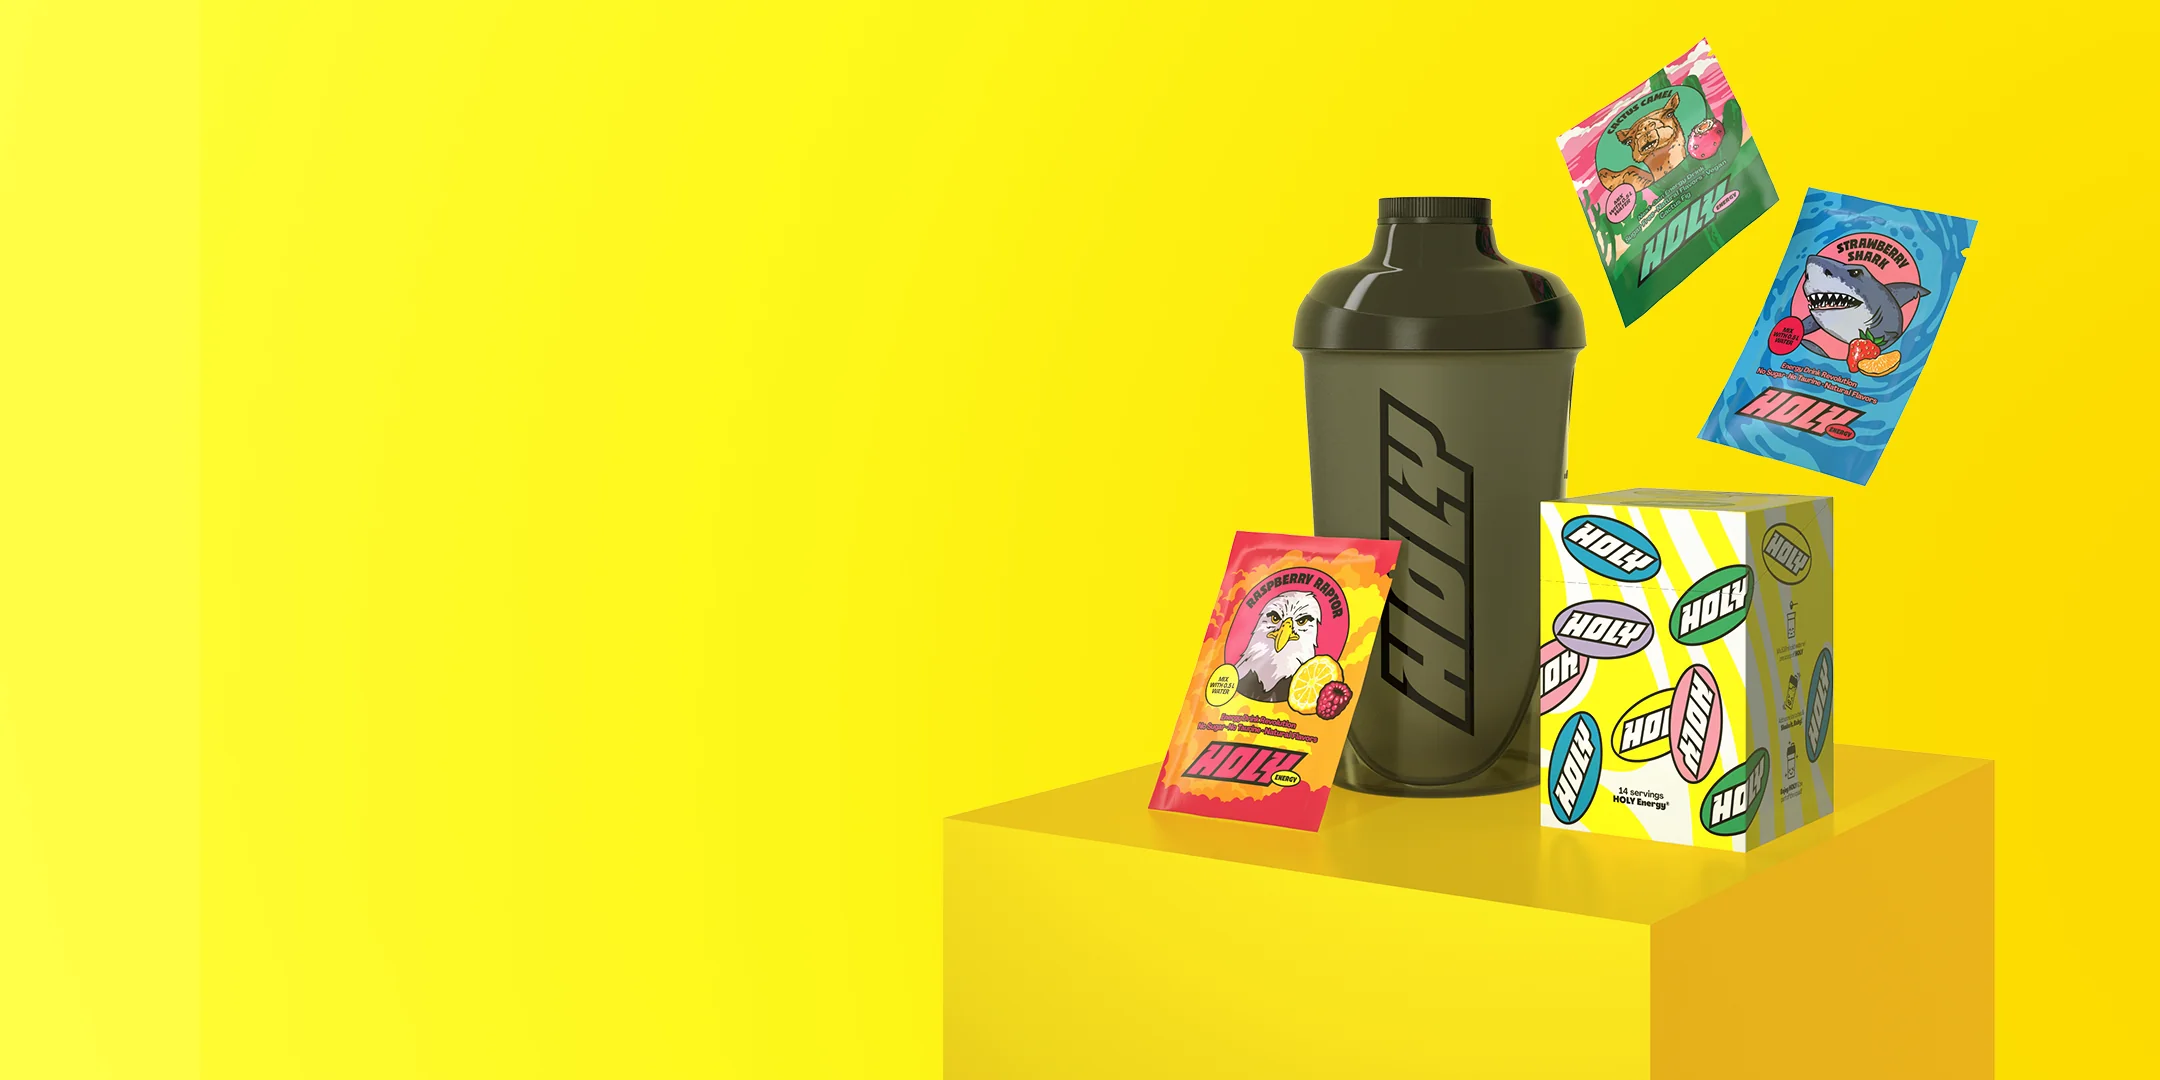
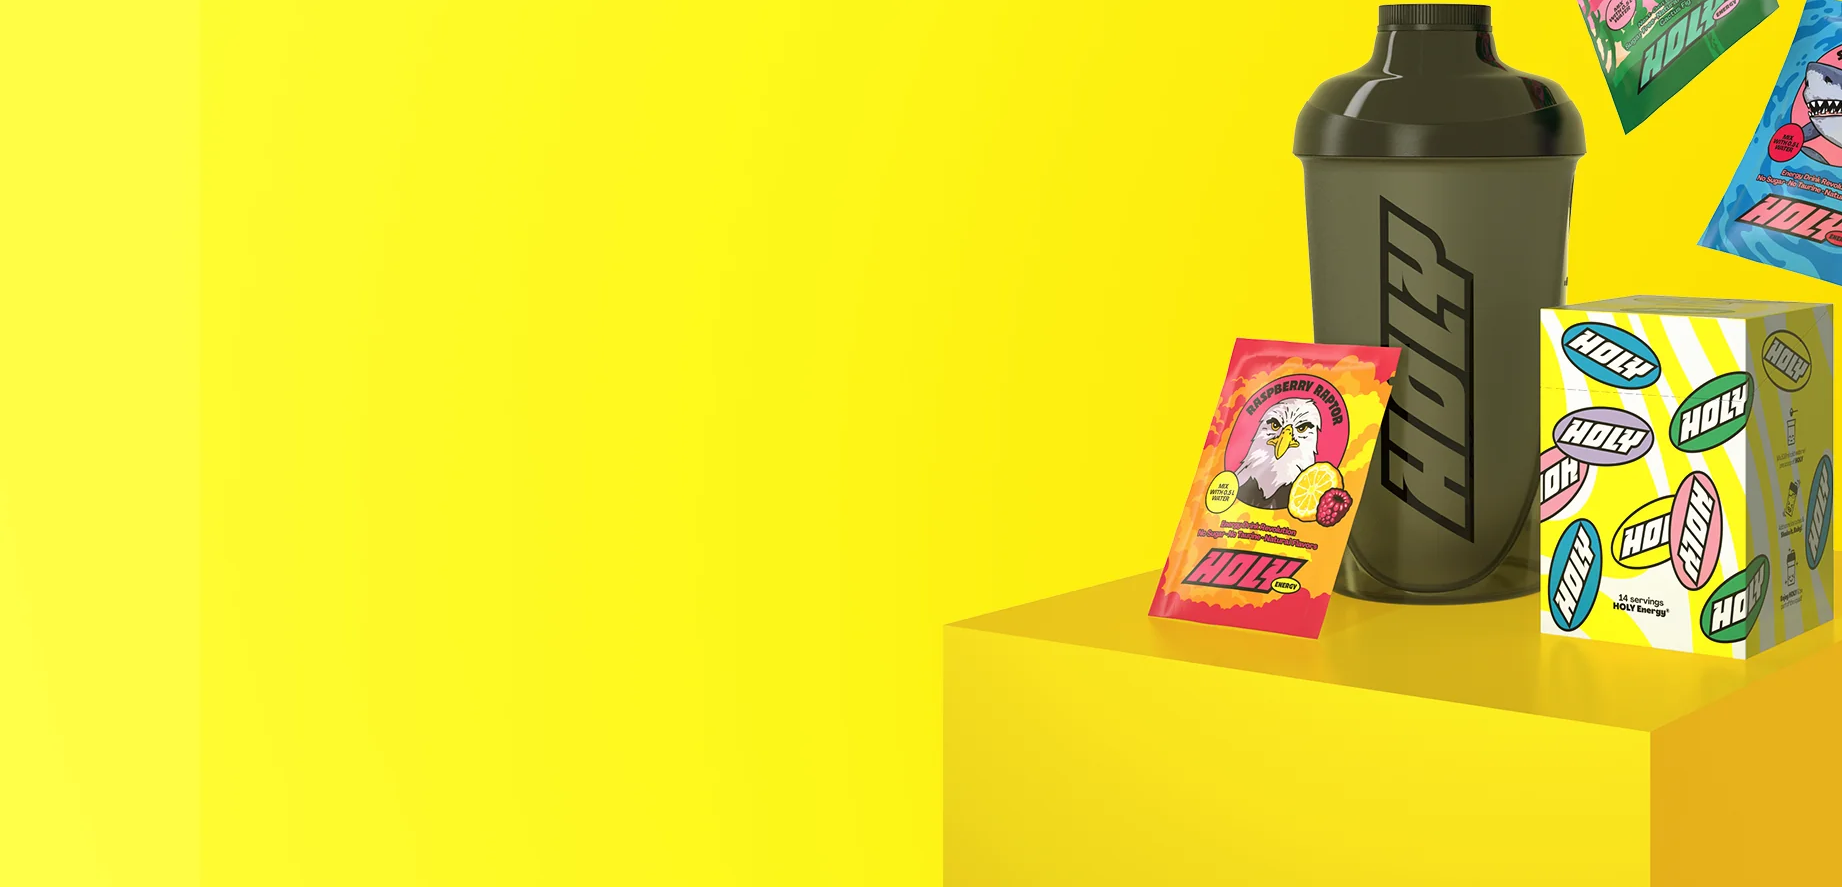
Modification de la width du backrgound du carousel et redimension des images

diff --git a/src/components/Carousel/Carousel.js b/src/components/Carousel/Carousel.js
@@ -39,27 +39,27 @@ export default function Carousel({games}) {
     <div className="carousel-global">
       <img className="ads-hero" src={pictureAds} alt="comercial banner" />
 
-    <div className="carousel-container">
-      {finalCover && finalCover.length ? 
-        <ResponsiveContainer
-        carouselRef={ref}
-        render={(parentWidth, carouselRef) => {
-          // If you want to use a ref to call the method of StackedCarousel, you cannot set the ref directly on the carousel component
-          // This is because ResponsiveContainer will not render the carousel before its parent's width is determined
-          // parentWidth is determined after your parent component mounts. Thus if you set the ref directly it will not work since the carousel is not rendered
-          // Thus you need to pass your ref object to the ResponsiveContainer as the carouselRef prop and in your render function you will receive this ref object
-          let currentVisibleSlide = 5;
-          if (parentWidth <= 1440) currentVisibleSlide = 3;
-          if (parentWidth <= 1080) currentVisibleSlide = 1;
-          return (
-            <div className="carousel">
-              <div
-              style={ {display:"flex", alignItems:"center", marginBottom: "40px"}}
-              size="small"
-              color="primary"
-              onClick={() => {
+      <div className="carousel-container">
+        {finalCover && finalCover.length ? 
+          <ResponsiveContainer
+          carouselRef={ref}
+          render={(parentWidth, carouselRef) => {
+            // If you want to use a ref to call the method of StackedCarousel, you cannot set the ref directly on the carousel component
+            // This is because ResponsiveContainer will not render the carousel before its parent's width is determined
+            // parentWidth is determined after your parent component mounts. Thus if you set the ref directly it will not work since the carousel is not rendered
+            // Thus you need to pass your ref object to the ResponsiveContainer as the carouselRef prop and in your render function you will receive this ref object
+            let currentVisibleSlide = 5;
+            if (parentWidth <= 1440) currentVisibleSlide = 3;
+            if (parentWidth <= 1080) currentVisibleSlide = 1;
+            return (
+              <div className="carousel">
+                <div
+                style={ {display:"flex", alignItems:"center", marginBottom: "40px"}}
+                size="small"
+                color="primary"
+                onClick={() => {
                 ref.current?.goBack();
-              }}
+                }}
               >
               <ArrowBackIcon className="arrowBackIcon"/>
               </div>
@@ -75,24 +75,25 @@ export default function Carousel({games}) {
               useGrabCursor
               />
 
-            <div
-            style={ {display:"flex", alignItems:"center", marginBottom: "40px"}}
-            size="small"
-            color="primary"
-            onClick={() => {
+              <div
+              style={ {display:"flex", alignItems:"center", marginBottom: "40px"}}
+              size="small"
+              color="primary"
+              onClick={() => {
               ref.current?.goNext(6);
-            }}
-            >
-            <ArrowForwardIcon className="arrowForwardIcon"/>
-            </div>
+              }}
+              >
+              <ArrowForwardIcon className="arrowForwardIcon"/>
+              </div>
 
-          </div>
+            </div>
             );
           }}
           />
           : null }
 
-    </div>
+      </div>
+      
     </div>
           
 )};

diff --git a/src/components/Carousel/Carousel.css b/src/components/Carousel/Carousel.css
@@ -5,6 +5,7 @@
 .carousel-global {
     width: 100%;
     height: 350px;
+    overflow: hidden;
 }
 
 .carousel-container {
@@ -25,10 +26,10 @@
     position: absolute;
     top: 50px;
     left: 0;
-    width: 118%;
+    width: 100%;
     height: 350px;
     object-fit: cover;
-    object-position: 75% 40%;
+    object-position: center;
     z-index: -1;
 }
 
